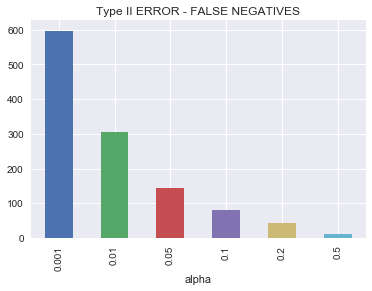
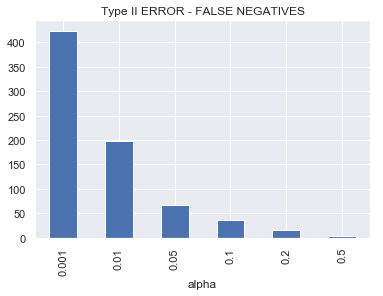
Fix small errors. Add example dataframes

diff --git a/README.md b/README.md
@@ -75,19 +75,15 @@ pop.dtype
 sns.distplot(pop)
 ```
 
-    /Users/forest.polchow/anaconda3/lib/python3.6/site-packages/matplotlib/axes/_axes.py:6462: UserWarning: The 'normed' kwarg is deprecated, and has been replaced by the 'density' kwarg.
-      warnings.warn("The 'normed' kwarg is deprecated, and has been "
+
+
+
+    <matplotlib.axes._subplots.AxesSubplot at 0x1a25091470>
 
 
 
 
-
-    <matplotlib.axes._subplots.AxesSubplot at 0x1a16b112e8>
-
-
-
-
-![png](index_files/index_5_2.png)
+![png](index_files/index_5_1.png)
 
 
 Now take two samples from this population and comment on the difference between their means and standard deviations. How would you ensure the independence between the elements of these samples? 
@@ -255,10 +251,80 @@ def type_1_error(population, num_tests, alpha_set):
     Returns
     ----------
     sig_tests : DataFrame
-        A dataframe containing the columns 'type_2_error', 'p_value', and 'alpha'
+        A dataframe containing the columns 'type_1_error', 'p_value', and 'alpha'
     """
     pass
+# Example dataframe for 1 test below
 ```
+
+
+
+
+<div>
+<style scoped>
+    .dataframe tbody tr th:only-of-type {
+        vertical-align: middle;
+    }
+
+    .dataframe tbody tr th {
+        vertical-align: top;
+    }
+
+    .dataframe thead th {
+        text-align: right;
+    }
+</style>
+<table border="1" class="dataframe">
+  <thead>
+    <tr style="text-align: right;">
+      <th></th>
+      <th>type_1_error</th>
+      <th>p_value</th>
+      <th>alpha</th>
+    </tr>
+  </thead>
+  <tbody>
+    <tr>
+      <th>0</th>
+      <td>0.0</td>
+      <td>0.483709</td>
+      <td>0.001</td>
+    </tr>
+    <tr>
+      <th>1</th>
+      <td>0.0</td>
+      <td>0.363442</td>
+      <td>0.010</td>
+    </tr>
+    <tr>
+      <th>2</th>
+      <td>0.0</td>
+      <td>0.307050</td>
+      <td>0.050</td>
+    </tr>
+    <tr>
+      <th>3</th>
+      <td>0.0</td>
+      <td>0.747468</td>
+      <td>0.100</td>
+    </tr>
+    <tr>
+      <th>4</th>
+      <td>0.0</td>
+      <td>0.227174</td>
+      <td>0.200</td>
+    </tr>
+    <tr>
+      <th>5</th>
+      <td>0.0</td>
+      <td>0.560323</td>
+      <td>0.500</td>
+    </tr>
+  </tbody>
+</table>
+</div>
+
+
 
 
 ```python
@@ -277,9 +343,9 @@ def type_1_error(population, num_tests, alpha_set):
     Returns
     ----------
     sig_tests : DataFrame
-        A dataframe containing the columns 'type_2_error', 'p_value', and 'alpha'
+        A dataframe containing the columns 'type_1_error', 'p_value', and 'alpha'
     """
-    columns = ['type_1_error','p_val','alpha']
+    columns = ['type_1_error','p_value','alpha']
     sig_tests = pd.DataFrame(columns=columns)
     counter = 0
     
@@ -316,7 +382,7 @@ pop = None
 num_tests = None
 alpha_set = None
 sig_tests_1 = type_1_error(pop, num_tests, alpha_set)
-group_error = sig_tests.groupby('alpha')['type_1_error'].sum()
+group_error = sig_tests_1.groupby('alpha')['type_1_error'].sum()
 group_error.plot.bar(title = "TYPE I ERROR - FALSE POSITIVES")
 ```
 
@@ -333,19 +399,14 @@ group_error.plot.bar(title = "TYPE I ERROR - FALSE POSITIVES")
 ```
 
 
-    ---------------------------------------------------------------------------
-
-    NameError                                 Traceback (most recent call last)
-
-    <ipython-input-1-38bd874a0f40> in <module>()
-          1 # group type 1 error by values of alpha
-    ----> 2 pop = np.random.normal(100, 20, 1000)
-          3 numTests = 1000
-          4 alphaSet = [0.001, 0.01, 0.05, 0.1, 0.2, 0.5]
-          5 sig_tests_1 = type_1_error(pop, numTests, alphaSet)
 
 
-    NameError: name 'np' is not defined
+    <matplotlib.axes._subplots.AxesSubplot at 0x1a2546e748>
+
+
+
+
+![png](index_files/index_21_1.png)
 
 
 Grouped data clearly shows that as value of alpha is increases from .001 to 0.5, the probability of TYPE I errors also increase. 
@@ -383,27 +444,98 @@ To test your function:
 
 
 ```python
-def type_2_error(population, population_2, num_tests, alpha_set):
+# def type_2_error(population, population_2, num_tests, alpha_set):
     
-    """
-    Parameters
-    ----------
-    population: ndarray
-        A random normal distribution
-    population_2: ndarray
-        A different random normal distribution
-    num_tests: int
-        The number of hypothesis tests to be computed
-    alpha_set: list
-        List of alpha levels
+#     """
+#     Parameters
+#     ----------
+#     population: ndarray
+#         A random normal distribution
+#     population_2: ndarray
+#         A different random normal distribution
+#     num_tests: int
+#         The number of hypothesis tests to be computed
+#     alpha_set: list
+#         List of alpha levels
     
-    Returns
-    ----------
-    sig_tests : DataFrame
-        A dataframe containing the columns 'type_2_error', 'p_value', and 'alpha'
-    """
-    pass
+#     Returns
+#     ----------
+#     sig_tests : DataFrame
+#         A dataframe containing the columns 'type_2_error', 'p_value', and 'alpha'
+#     """
+#     pass
+
+type_2_error(pop,pop2,1,alpha_set)
 ```
+
+
+
+
+<div>
+<style scoped>
+    .dataframe tbody tr th:only-of-type {
+        vertical-align: middle;
+    }
+
+    .dataframe tbody tr th {
+        vertical-align: top;
+    }
+
+    .dataframe thead th {
+        text-align: right;
+    }
+</style>
+<table border="1" class="dataframe">
+  <thead>
+    <tr style="text-align: right;">
+      <th></th>
+      <th>type_2_error</th>
+      <th>p_val</th>
+      <th>alpha</th>
+    </tr>
+  </thead>
+  <tbody>
+    <tr>
+      <th>0</th>
+      <td>0.0</td>
+      <td>0.000997</td>
+      <td>0.001</td>
+    </tr>
+    <tr>
+      <th>1</th>
+      <td>1.0</td>
+      <td>0.210364</td>
+      <td>0.010</td>
+    </tr>
+    <tr>
+      <th>2</th>
+      <td>0.0</td>
+      <td>0.000079</td>
+      <td>0.050</td>
+    </tr>
+    <tr>
+      <th>3</th>
+      <td>0.0</td>
+      <td>0.001493</td>
+      <td>0.100</td>
+    </tr>
+    <tr>
+      <th>4</th>
+      <td>0.0</td>
+      <td>0.000048</td>
+      <td>0.200</td>
+    </tr>
+    <tr>
+      <th>5</th>
+      <td>0.0</td>
+      <td>0.001294</td>
+      <td>0.500</td>
+    </tr>
+  </tbody>
+</table>
+</div>
+
+
 
 
 ```python
@@ -484,7 +616,7 @@ group_error2.plot.bar(title = "Type II ERROR - FALSE NEGATIVES")
 
 
 
-    <matplotlib.axes._subplots.AxesSubplot at 0x1a22535e80>
+    <matplotlib.axes._subplots.AxesSubplot at 0x1a25ebe630>
 
 
 
